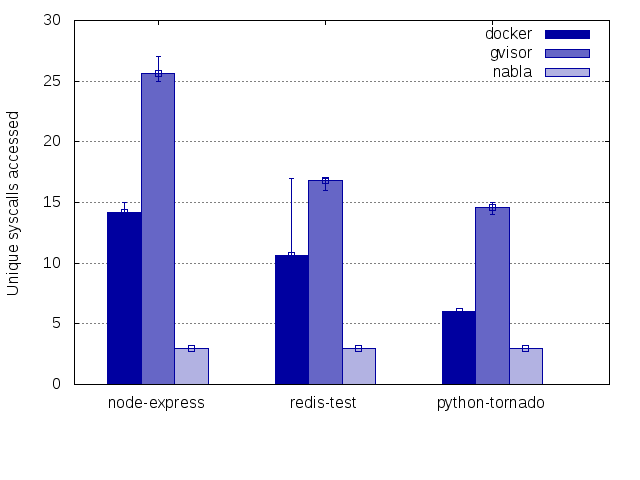
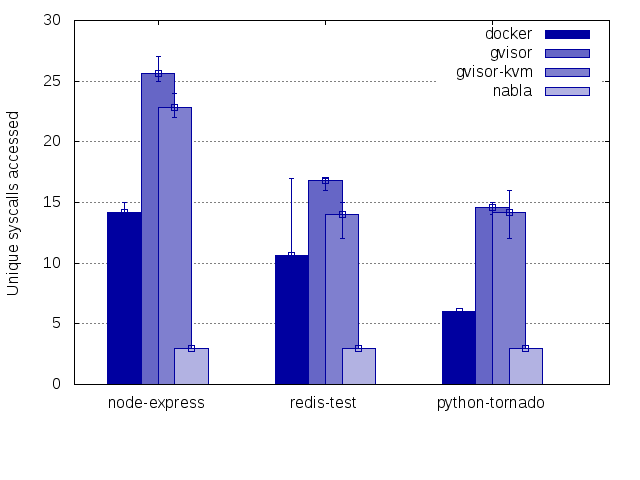
gvisor-kvm results

diff --git a/README.md b/README.md
@@ -18,13 +18,14 @@ ends up in a directory for later perusal.
 
 The easiest way to replicate a test is to run commands of the form
 `./runtest.bash <RUNTIME> <CONTAINER> <OUTPUT_DIR>`.  RUNTIME can
-currently be `runc` (default docker), `runnc` (nabla) or `runsc`
-(gvisor), and CONTAINER is one of those specified above.  Here are
-some examples:
+currently be `runc` (default docker), `runnc` (nabla), `runsc`
+(gvisor), or `runsck` (gvisor in kvm mode), and CONTAINER is one of
+those specified above.  Here are some examples:
 
     sudo ./runtest.bash runc node-express results/docker-node-express
     sudo ./runtest.bash runnc node-express results/nabla-node-express
-    sudo ./runtest.bash runsc node-express results/gvisor-node-express       
+    sudo ./runtest.bash runsc node-express results/gvisor-node-express
+    sudo ./runtest.bash runsck node-express results/gvisork-node-express           
 
 We inform the Docker daemon of the alternate runtimes by adding them
 to `/etc/docker/daemon.json` (as also described in the `runnc`
@@ -37,7 +38,16 @@ repository's README):
         "runsc": {
             "path": "/usr/local/bin/runsc"
         }
+        "runsck": {
+            "path": "/usr/local/bin/runsc",
+            "runtimeArgs": [
+                "--platform=kvm"
+            ]
+        }
+
     }
+
+
 
 ###  Technical notes
 
